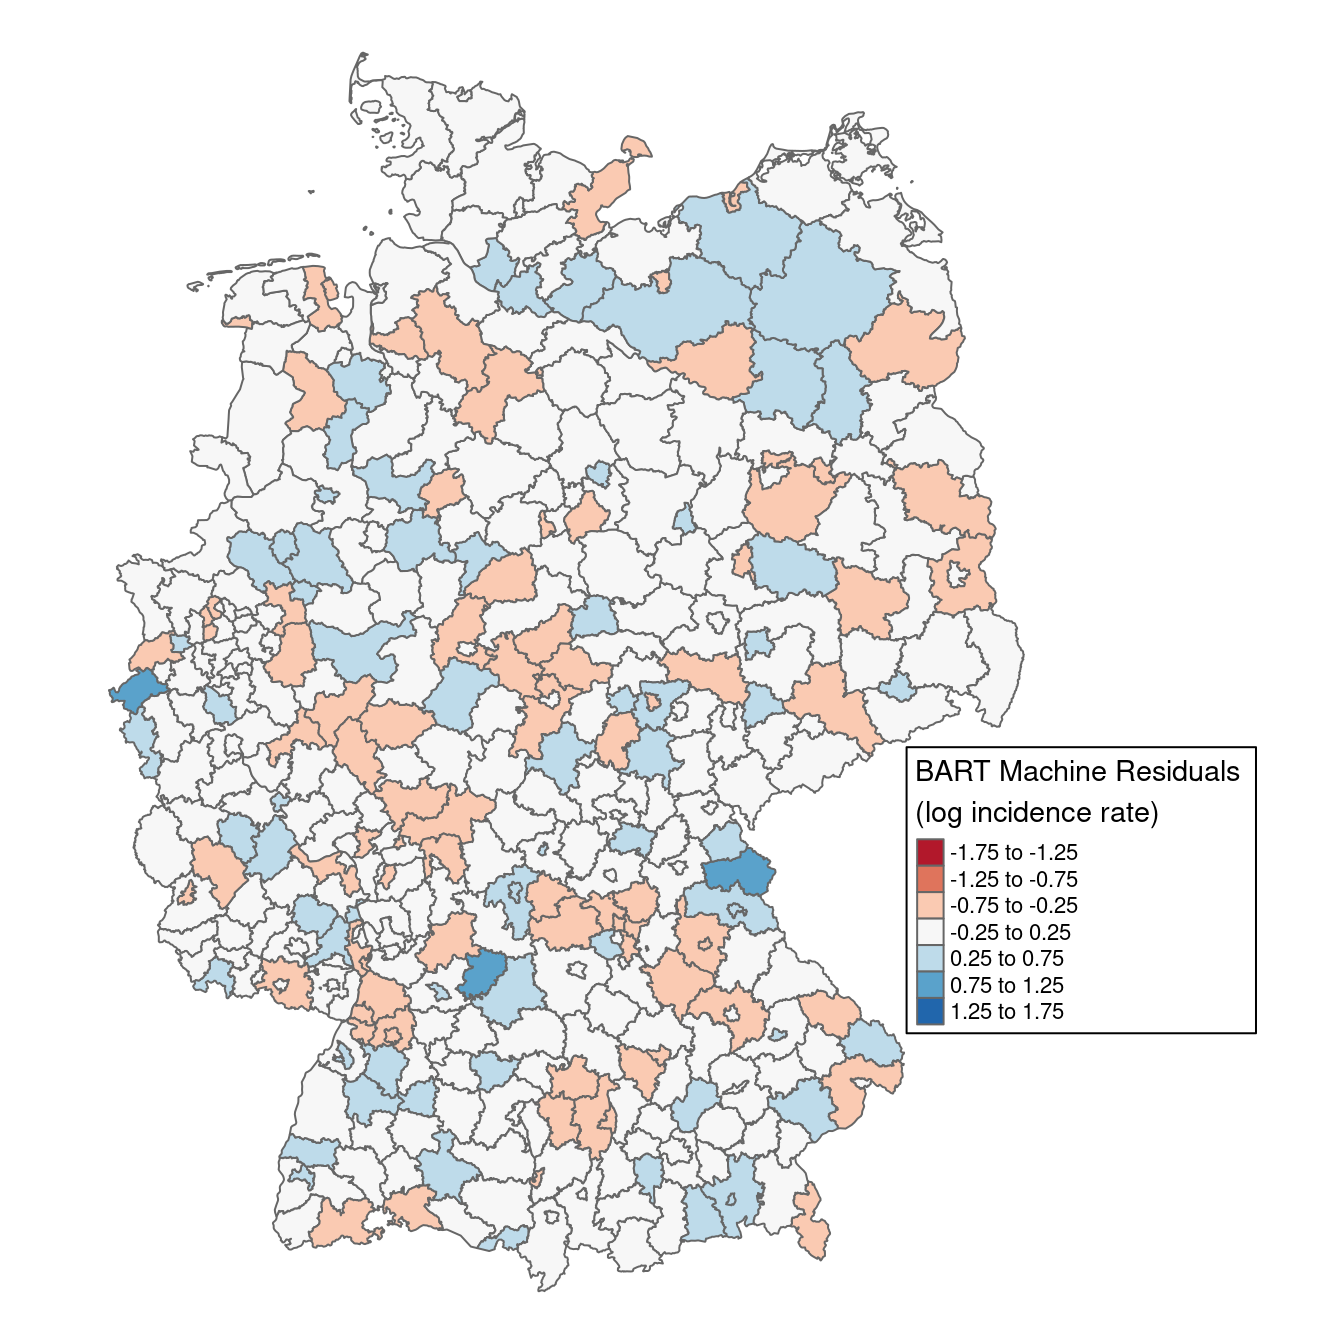
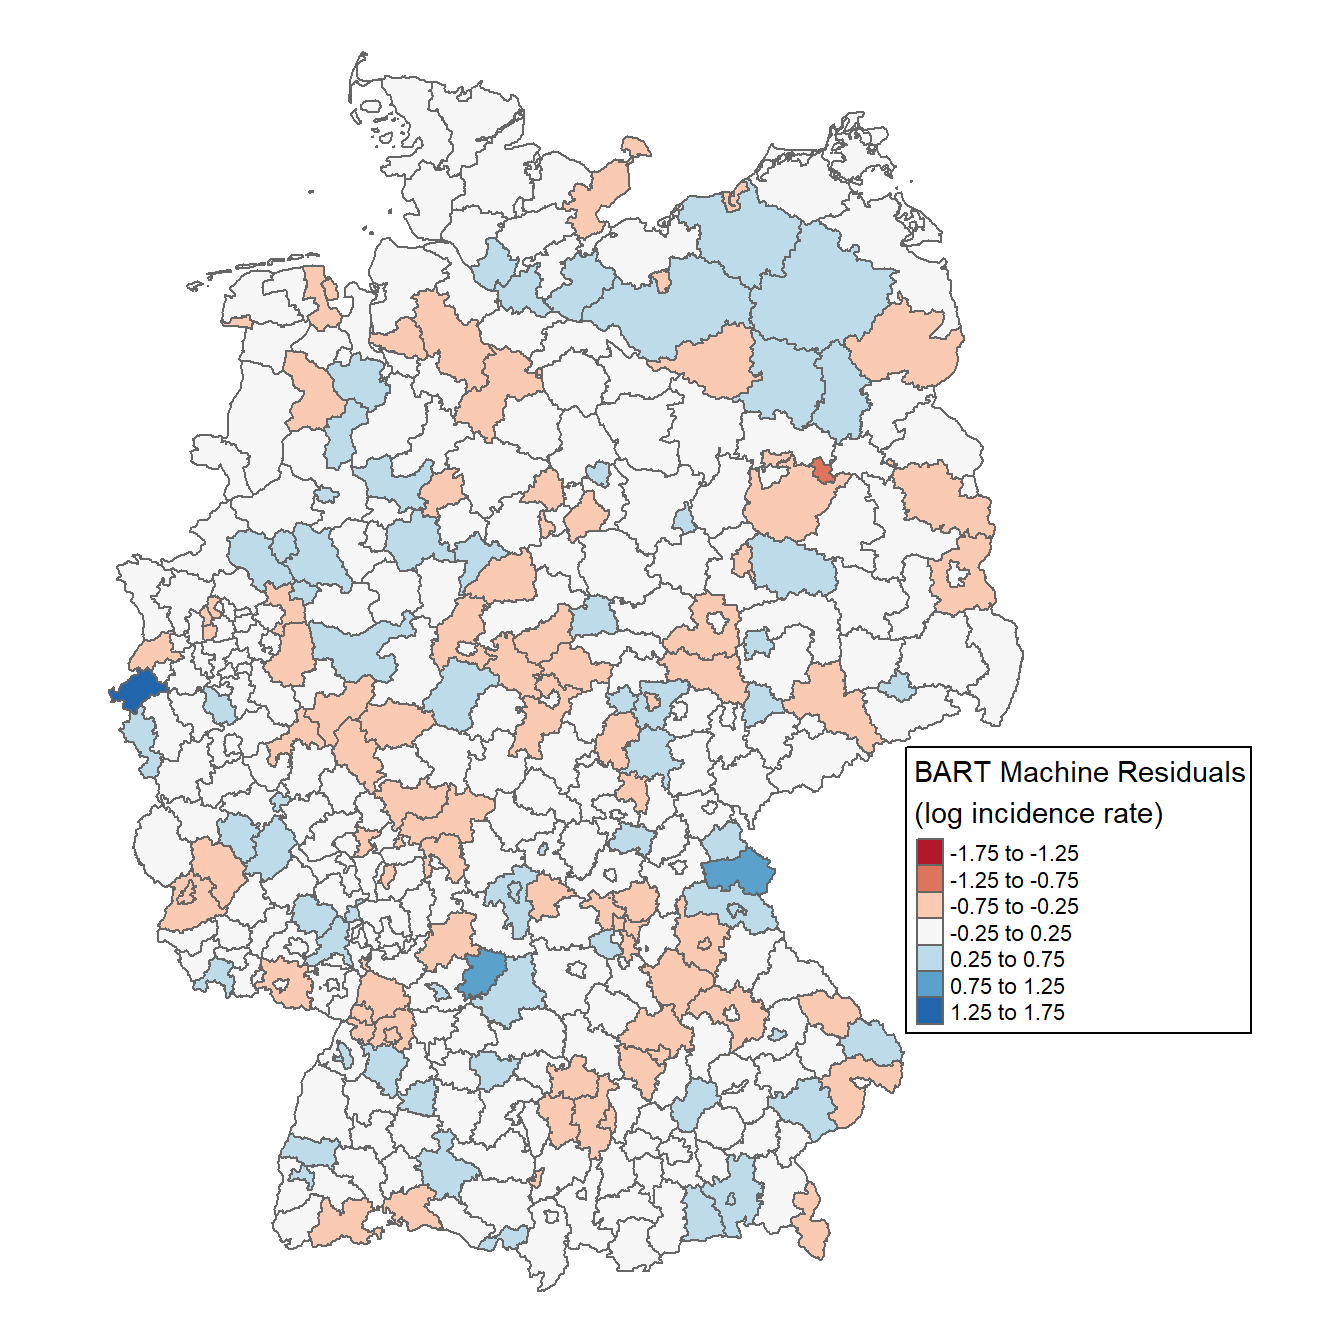
Description

diff --git a/content/post/2021-04-20-bart-a-bayesian-machine-learing-workflow-for-complex-spatial-data/index.en.html b/content/post/2021-04-20-bart-a-bayesian-machine-learing-workflow-for-complex-spatial-data/index.en.html
@@ -13,7 +13,7 @@ subtitle: ''
 summary: 'In our recent publication from 2020 we analyzed COVID-19 incidence rates using a multimethod approach. In this post I will present BART - a Bayesian machine learning algorithm - to model COVID-19 incidence rates.'
 authors: []
 lastmod: '2021-04-20T15:54:53+02:00'
-featured: no
+featured: yes
 image:
   caption: ''
   focal_point: ''
@@ -24,8 +24,6 @@ bibliography: references.bib
 ---
 
 <script src="{{< blogdown/postref >}}index.en_files/header-attrs/header-attrs.js"></script>
-<link href="{{< blogdown/postref >}}index.en_files/anchor-sections/anchor-sections.css" rel="stylesheet" />
-<script src="{{< blogdown/postref >}}index.en_files/anchor-sections/anchor-sections.js"></script>
 <script src="{{< blogdown/postref >}}index.en_files/kePrint/kePrint.js"></script>
 <link href="{{< blogdown/postref >}}index.en_files/lightable/lightable.css" rel="stylesheet" />
 
@@ -6737,25 +6735,26 @@ Max
                       k=2, nu=3, q=0.9, num_trees=100, 
                       num_iterations_after_burn_in=2000, 
                       num_burn_in = 300, 
-                      seed = 1234, verbose = FALSE)
-
-summary(bm_All)</code></pre>
-<pre><code>## bartMachine v1.2.5.1 for regression
+                      seed = 1234, verbose = FALSE)</code></pre>
+<pre><code>## Warning in build_bart_machine(X, y, Xy, num_trees, num_burn_in, num_iterations_after_burn_in, : Setting the seed when using parallelization does not result in deterministic output.
+## If you need deterministic output, you must run &quot;set_bart_machine_num_cores(1)&quot; and then build the BART model with the set seed.</code></pre>
+<pre class="r"><code>summary(bm_All)</code></pre>
+<pre><code>## bartMachine v1.2.6 for regression
 ## 
 ## training data n = 401 and p = 366 
-## built in 5.1 secs on 20 cores, 100 trees, 300 burn-in and 2000 post. samples
+## built in 7.3 secs on 20 cores, 100 trees, 300 burn-in and 2000 post. samples
 ## 
 ## sigsq est for y beforehand: 0.024 
-## avg sigsq estimate after burn-in: 0.09704 
+## avg sigsq estimate after burn-in: 0.08411 
 ## 
 ## in-sample statistics:
-##  L1 = 61.22 
-##  L2 = 16.06 
-##  rmse = 0.2 
-##  Pseudo-Rsq = 0.917
-## p-val for shapiro-wilk test of normality of residuals: 8e-05 
-## p-val for zero-mean noise: 0.98895</code></pre>
-<p>The Pseudo-R² of 0.92 and RMSE of 0.2 look quiet promising, but let’s check for error assumptions.</p>
+##  L1 = 56.04 
+##  L2 = 13.1 
+##  rmse = 0.18 
+##  Pseudo-Rsq = 0.9323
+## p-val for shapiro-wilk test of normality of residuals: 0.00087 
+## p-val for zero-mean noise: 0.96076</code></pre>
+<p>The Pseudo-R² of 0.93 and RMSE of 0.18 look quiet promising, but let’s check for error assumptions.</p>
 <pre class="r"><code>check_bart_error_assumptions(bm_All)</code></pre>
 <p><img src="errorAssumption.png" /></p>
 <p>Both plots look good. In the second one (Assessment of Heteroskedasticity) we can detect a visible pattern - however not a prominent one! From both plots I would assume that the overall performance of the model is good, however it might struggle with extreme values.</p>
@@ -6838,24 +6837,26 @@ var_sel$important_vars_cv</code></pre>
 <p>With the subset of important predictors, we will build a second BART model. Again, I have already computed the optimal hyperparameters using the <code>bartMachineCV</code> function.</p>
 <pre class="r"><code>bm_final &lt;- bartMachine(X = data_subset, y = y, 
                         k=3, nu=3, q=0.99, num_trees=225,
-                        seed = 1234, verbose = FALSE)
-summary(bm_final)</code></pre>
-<pre><code>## bartMachine v1.2.5.1 for regression
+                        seed = 1234, verbose = FALSE)</code></pre>
+<pre><code>## Warning in build_bart_machine(X, y, Xy, num_trees, num_burn_in, num_iterations_after_burn_in, : Setting the seed when using parallelization does not result in deterministic output.
+## If you need deterministic output, you must run &quot;set_bart_machine_num_cores(1)&quot; and then build the BART model with the set seed.</code></pre>
+<pre class="r"><code>summary(bm_final)</code></pre>
+<pre><code>## bartMachine v1.2.6 for regression
 ## 
 ## training data n = 401 and p = 31 
-## built in 3.8 secs on 20 cores, 225 trees, 250 burn-in and 1000 post. samples
+## built in 5 secs on 20 cores, 225 trees, 250 burn-in and 1000 post. samples
 ## 
 ## sigsq est for y beforehand: 0.185 
-## avg sigsq estimate after burn-in: 0.12952 
+## avg sigsq estimate after burn-in: 0.12811 
 ## 
 ## in-sample statistics:
-##  L1 = 90.41 
-##  L2 = 34.33 
+##  L1 = 89.74 
+##  L2 = 34.06 
 ##  rmse = 0.29 
-##  Pseudo-Rsq = 0.8226
-## p-val for shapiro-wilk test of normality of residuals: 0.00155 
-## p-val for zero-mean noise: 0.99065</code></pre>
-<p>Compared to the first BART model, the second one saw a reduction in Pseudo-R² from 0.92 to 0.82, equating to a 10% reduction in explained variability. The RMSE increased from 0.2 to 0.29, indicating that the final model predicted age-adjusted incidence rates of COVID-19 for German counties with an accuracy of +/− 1.3 cases per 100,000. Again we need to check error assumptions and fitted vs. actual values.</p>
+##  Pseudo-Rsq = 0.824
+## p-val for shapiro-wilk test of normality of residuals: 0.00122 
+## p-val for zero-mean noise: 0.94939</code></pre>
+<p>Compared to the first BART model, the second one saw a reduction in Pseudo-R² from 0.93 to 0.82, equating to a 12% reduction in explained variability. The RMSE increased from 0.18 to 0.29, indicating that the final model predicted age-adjusted incidence rates of COVID-19 for German counties with an accuracy of +/− 1.3 cases per 100,000. Again we need to check error assumptions and fitted vs. actual values.</p>
 <pre class="r"><code>check_bart_error_assumptions(bm_final)</code></pre>
 <p><img src="errorAssumption2.png" /> The new model is expected to perform worse compared to the first model, but the Q-Q and Fitted vs. Residuals plots both look good. Again, the BART model struggles with extreme (high) values.</p>
 <pre class="r"><code>plot_y_vs_yhat(bm_final, credible_intervals = TRUE)</code></pre>
@@ -6906,9 +6907,9 @@ MC</code></pre>
 ## weights: lw  
 ## number of simulations + 1: 100 
 ## 
-## statistic = 0.059986, observed rank = 96, p-value = 0.04
+## statistic = 0.059486, observed rank = 99, p-value = 0.01
 ## alternative hypothesis: greater</code></pre>
-<p>The Moran’s I score is between -1 and 1, where high (low) values determine positive (negative) spatial autocorrelation and 0 identifies the data is randomly distributed. The Morans’s I statistic of 0.06 (p=0.04) further confirms, that there is no spatial autocorrelation.</p>
+<p>The Moran’s I score is between -1 and 1, where high (low) values determine positive (negative) spatial autocorrelation and 0 identifies the data is randomly distributed. The Morans’s I statistic of 0.06 (p=0.01) further confirms, that there is no spatial autocorrelation.</p>
 </div>
 <div id="partial-dependence-plots" class="section level2">
 <h2>Partial Dependence Plots</h2>

diff --git a/content/home/experience.md b/content/home/experience.md
@@ -28,7 +28,7 @@ experience:
     location: FAU Erlangen-Nürnberg
     date_start: '2020-04-01'
     date_end: ''
-    description: Collecting and processing of census and OSM data. Developing algorithms, as well as statistical modeling in the projects COVID-19 and PURE SPACE. Writing publications as a co-author.
+    description: Collecting and processing remote sensing, census and OSM data. Developing algorithms and software in C++ and R. Statistical modelling in the COVID-19, PURE SPACE and GEM projects, as well as contributing to scientific publications.
         
   - title: Student assistant
     company: Remote Sensing & GIS
@@ -36,5 +36,5 @@ experience:
     location: FAU Erlangen-Nürnberg
     date_start: '2019-04-01'
     date_end: '2019-09-30'
-    description: Development of scripts for the processing of optical satellite images and TanDEM-X data in R and Shell, in the context of glaciology.
+    description: Development of scripts for processing optical satellite images and TanDEM-X data in R and Shell, in the context of glaciology. Georeferencing of glacier outlines in QGIS.
 ---

diff --git a/content/authors/admin/_index.md b/content/authors/admin/_index.md
@@ -44,4 +44,4 @@ title: Sebastian Brinkmann
 ---
 
 I am a Physical Geographer at [FAU Nürnberg-Erlangen](https://www.geographie.nat.fau.de/). In our [research group](https://www.geography.nat.fau.eu/research/cultural-geography/wg-digital-health/) I work as an Data Analyst and focus on machine learning, and the intersection of natural environment and human behaviour by developing novel algorithms.\
-In my spare time, I enjoy working on private coding projects and traveling the world with my backpack. 
+In my spare time, I practise Aikido and enjoy working on private coding projects and traveling the world with my backpack. 

diff --git a/content/home/skills.md b/content/home/skills.md
@@ -35,7 +35,7 @@ feature:
 - description: Intermediate
   icon: laptop-code
   icon_pack: fas
-  name: HTML & CSS
+  name: HTML, CSS & C++
 - description: Beginner
   icon: python
   icon_pack: fab
@@ -43,7 +43,7 @@ feature:
 - description: Beginner
   icon: laptop-code
   icon_pack: fas
-  name: C# & C++
+  name: C#
 
 # Uncomment to use emoji icons.
 #- icon = ":smile:"
